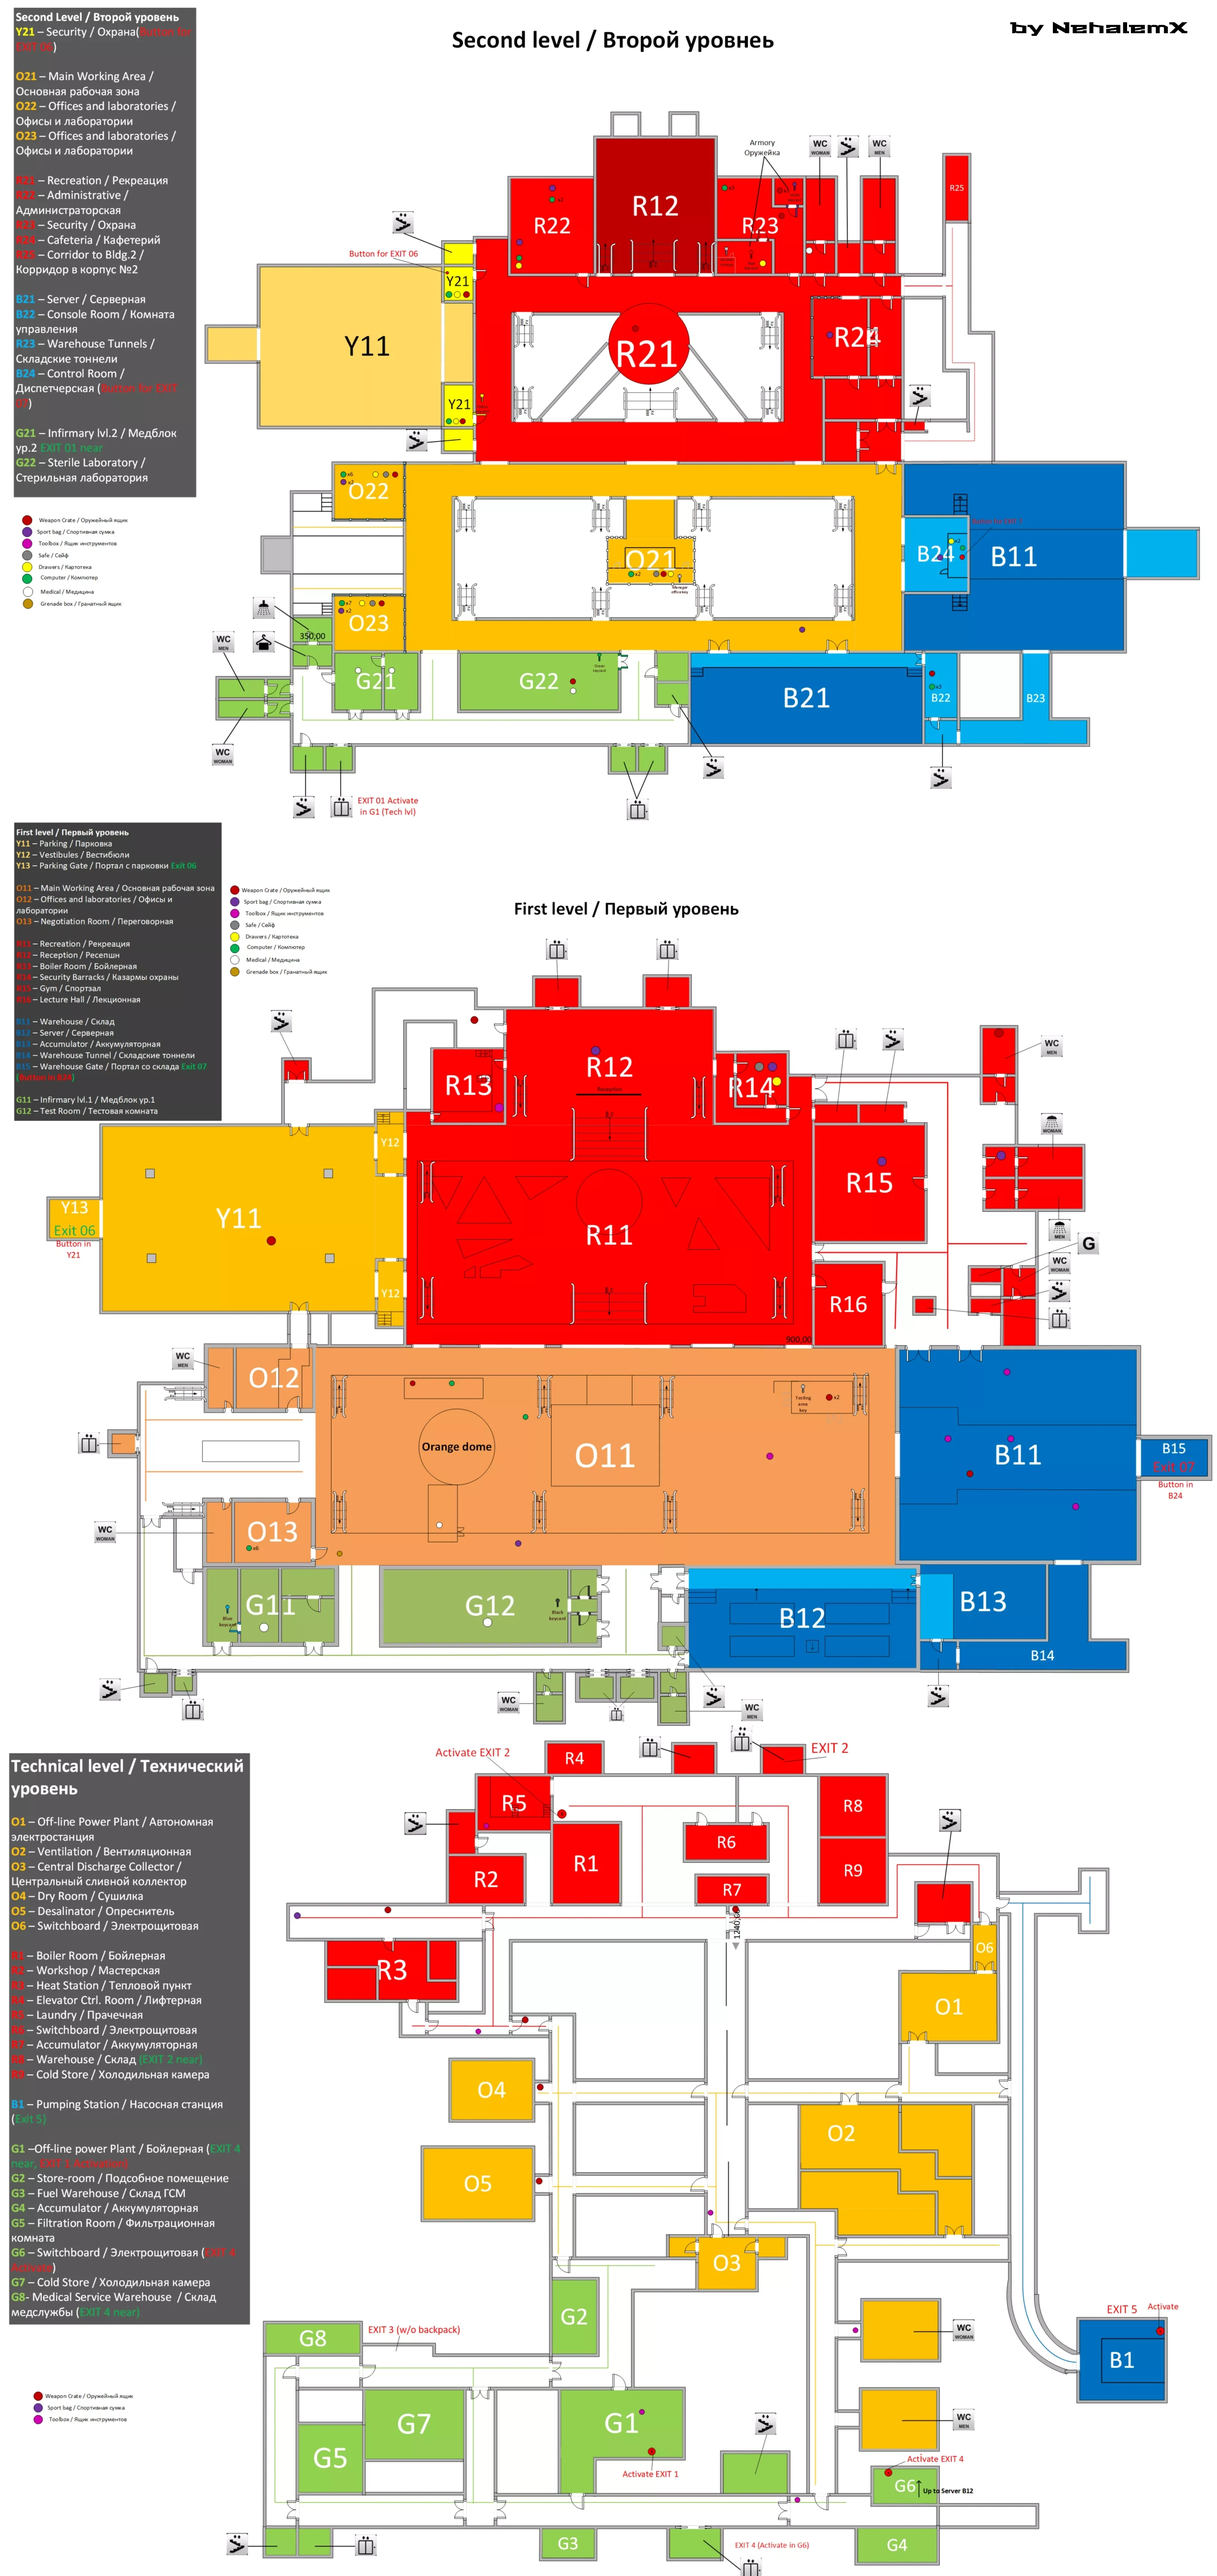
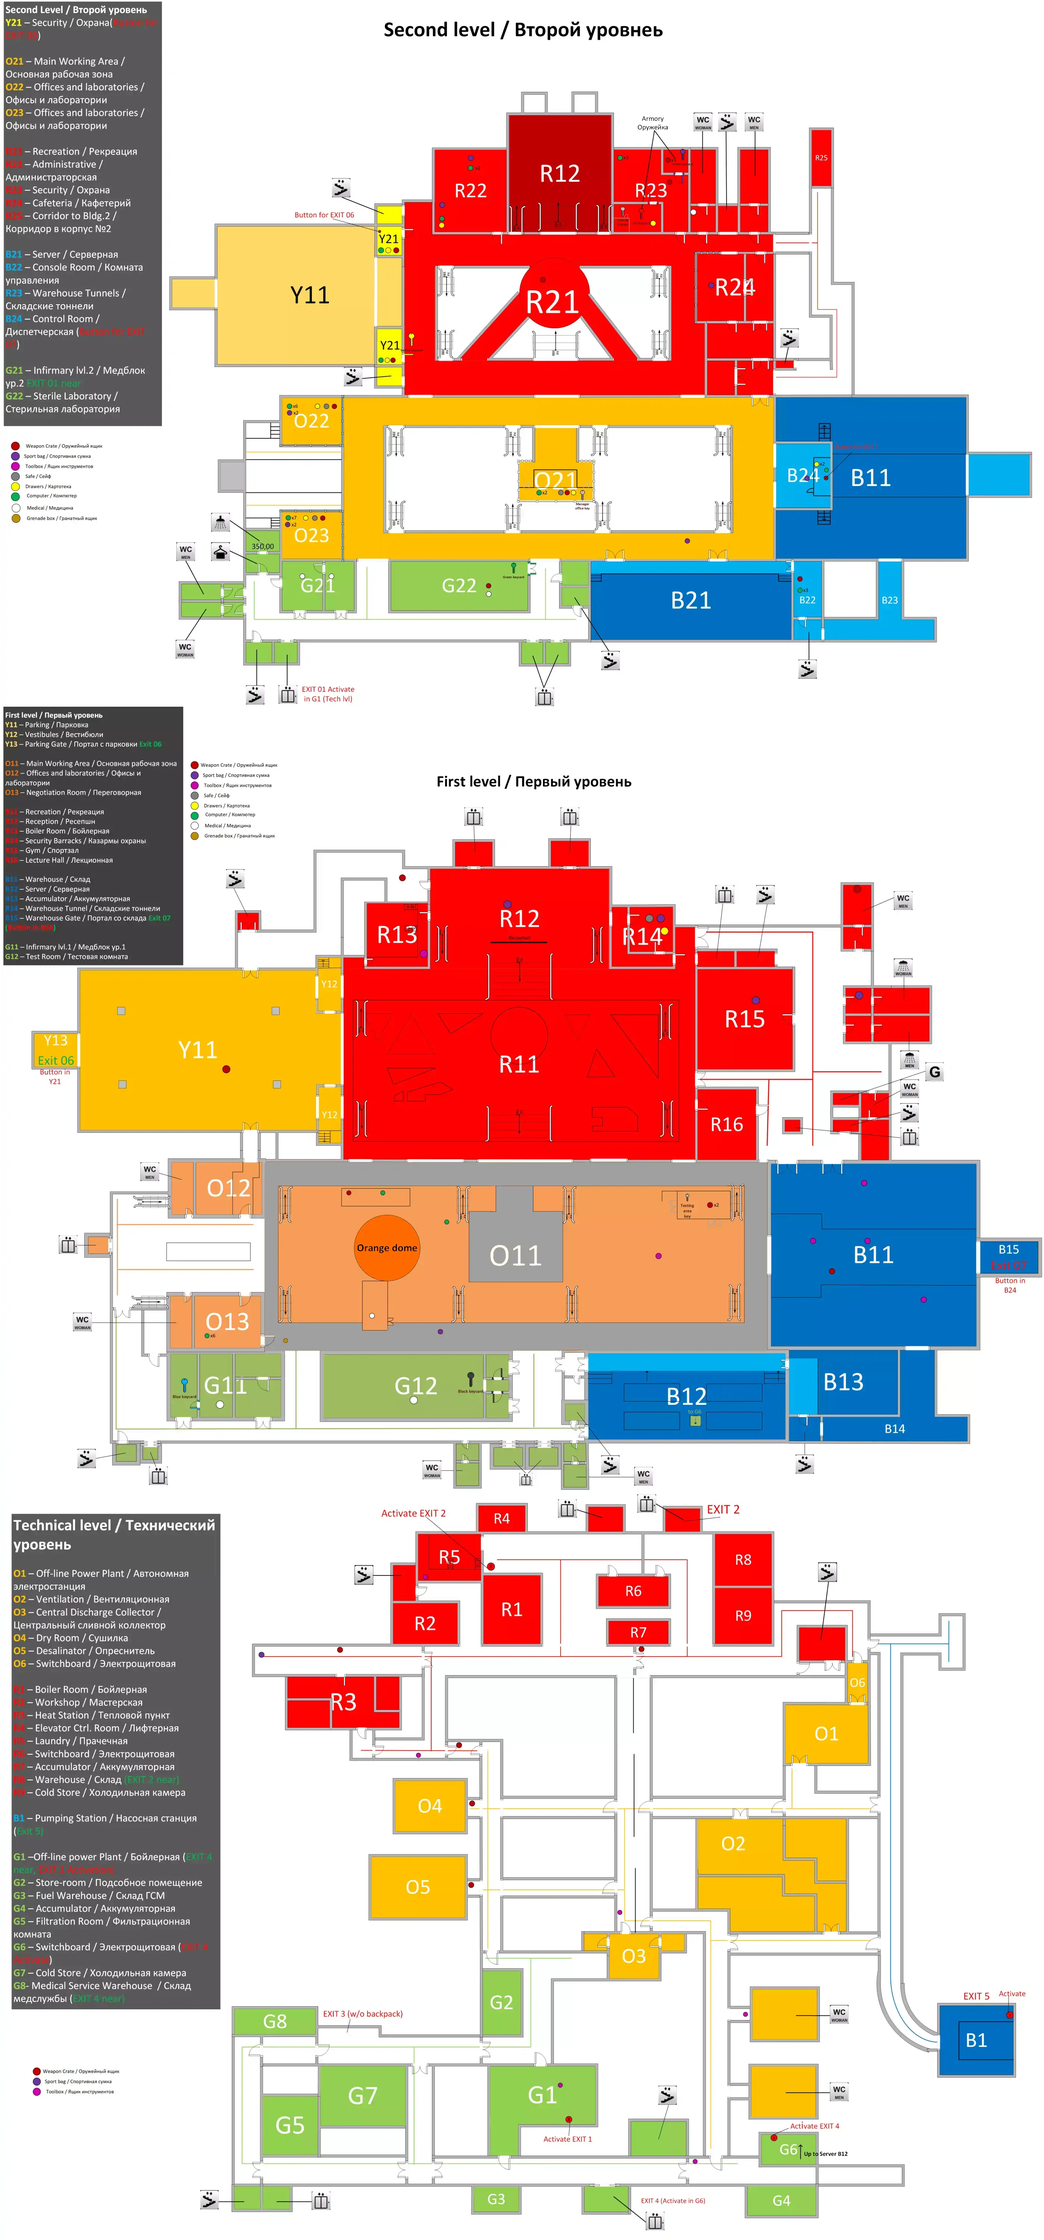
Optimise map images and migrate to webp

Changed region(s): [[0.0, 0.0, 0.9946, 1.0], [0.9325, 0.5298, 1.0, 0.5922]]

diff --git a/components/MapPage/MapHeader/MapHeader.stories.js b/components/MapPage/MapHeader/MapHeader.stories.js
@@ -1,5 +1,5 @@
 import { h } from 'preact';
-import map from '../../../mapImages/Customs.png';
+import map from '../../../mapImages/Customs.webp';
 import MapHeader from './index';
 import { action } from '@storybook/addon-actions';
 

diff --git a/store/mapData/InterchangeHiddenStashes.js b/store/mapData/InterchangeHiddenStashes.js
@@ -1,4 +1,4 @@
-import img from '../../mapImages/InterchangeHiddenStashes.jpg';
+import img from '../../mapImages/InterchangeHiddenStashes.webp';
 
 const mapData = {
   groupName: "Развязка / Interchange",

diff --git a/store/mapData/CustomsKeys.js b/store/mapData/CustomsKeys.js
@@ -1,4 +1,4 @@
-import customsKeysImg from '../../mapImages/CustomsKeys.jpg';
+import customsKeysImg from '../../mapImages/CustomsKeys.webp';
 
 const mapData = {
   groupName: "Таможня / Customs",

diff --git a/components/MapPage/MapCanvas/MapCanvas.stories.js b/components/MapPage/MapCanvas/MapCanvas.stories.js
@@ -1,5 +1,5 @@
 import { h } from 'preact';
-import map from '../../../mapImages/Customs.png';
+import map from '../../../mapImages/Customs.webp';
 import MapCanvas from './index';
 
 export default {

diff --git a/store/mapData/CustomsHiddenStashes.js b/store/mapData/CustomsHiddenStashes.js
@@ -1,4 +1,4 @@
-import img from '../../mapImages/CustomsHiddenStashes.jpg';
+import img from '../../mapImages/CustomsHiddenStashes.webp';
 
 const mapData = {
   groupName: "Таможня / Customs",

diff --git a/store/mapData/CustomsMain.js b/store/mapData/CustomsMain.js
@@ -1,4 +1,4 @@
-import customsMainImg from '../../mapImages/Customs.png';
+import customsMainImg from '../../mapImages/Customs.webp';
 
 const mapData = {
   groupName: "Таможня / Customs",

diff --git a/store/mapData/InterchangeMain.js b/store/mapData/InterchangeMain.js
@@ -1,4 +1,4 @@
-import img from '../../mapImages/InterchangeMain.jpg';
+import img from '../../mapImages/InterchangeMain.webp';
 
 const mapData = {
   groupName: "Развязка / Interchange",

diff --git a/store/mapData/ShorelineResort.js b/store/mapData/ShorelineResort.js
@@ -1,4 +1,4 @@
-import img from '../../mapImages/ShorelineResort.png';
+import img from '../../mapImages/ShorelineResort.webp';
 
 const mapData = {
   groupName: "Берег / Shoreline",

diff --git a/store/mapData/ShorelineKeys.js b/store/mapData/ShorelineKeys.js
@@ -1,4 +1,4 @@
-import img from '../../mapImages/ShorelineKeys.jpg';
+import img from '../../mapImages/ShorelineKeys.webp';
 
 const mapData = {
   groupName: "Берег / Shoreline",

diff --git a/store/mapData/ShorelineMain.js b/store/mapData/ShorelineMain.js
@@ -1,4 +1,4 @@
-import img from '../../mapImages/ShorelineMain.png';
+import img from '../../mapImages/ShorelineMain.webp';
 
 const mapData = {
   groupName: "Берег / Shoreline",

diff --git a/store/mapData/ReserveMain.js b/store/mapData/ReserveMain.js
@@ -1,4 +1,4 @@
-import img from '../../mapImages/ReserveMain.png';
+import img from '../../mapImages/ReserveMain.webp';
 
 const mapData = {
   groupName: "Резерв / Reserve",

diff --git a/store/mapData/FactoryMain.js b/store/mapData/FactoryMain.js
@@ -1,4 +1,4 @@
-import img from '../../mapImages/FactoryMain.png';
+import img from '../../mapImages/FactoryMain.webp';
 
 const mapData = {
   groupName: "Завод / Factory",
